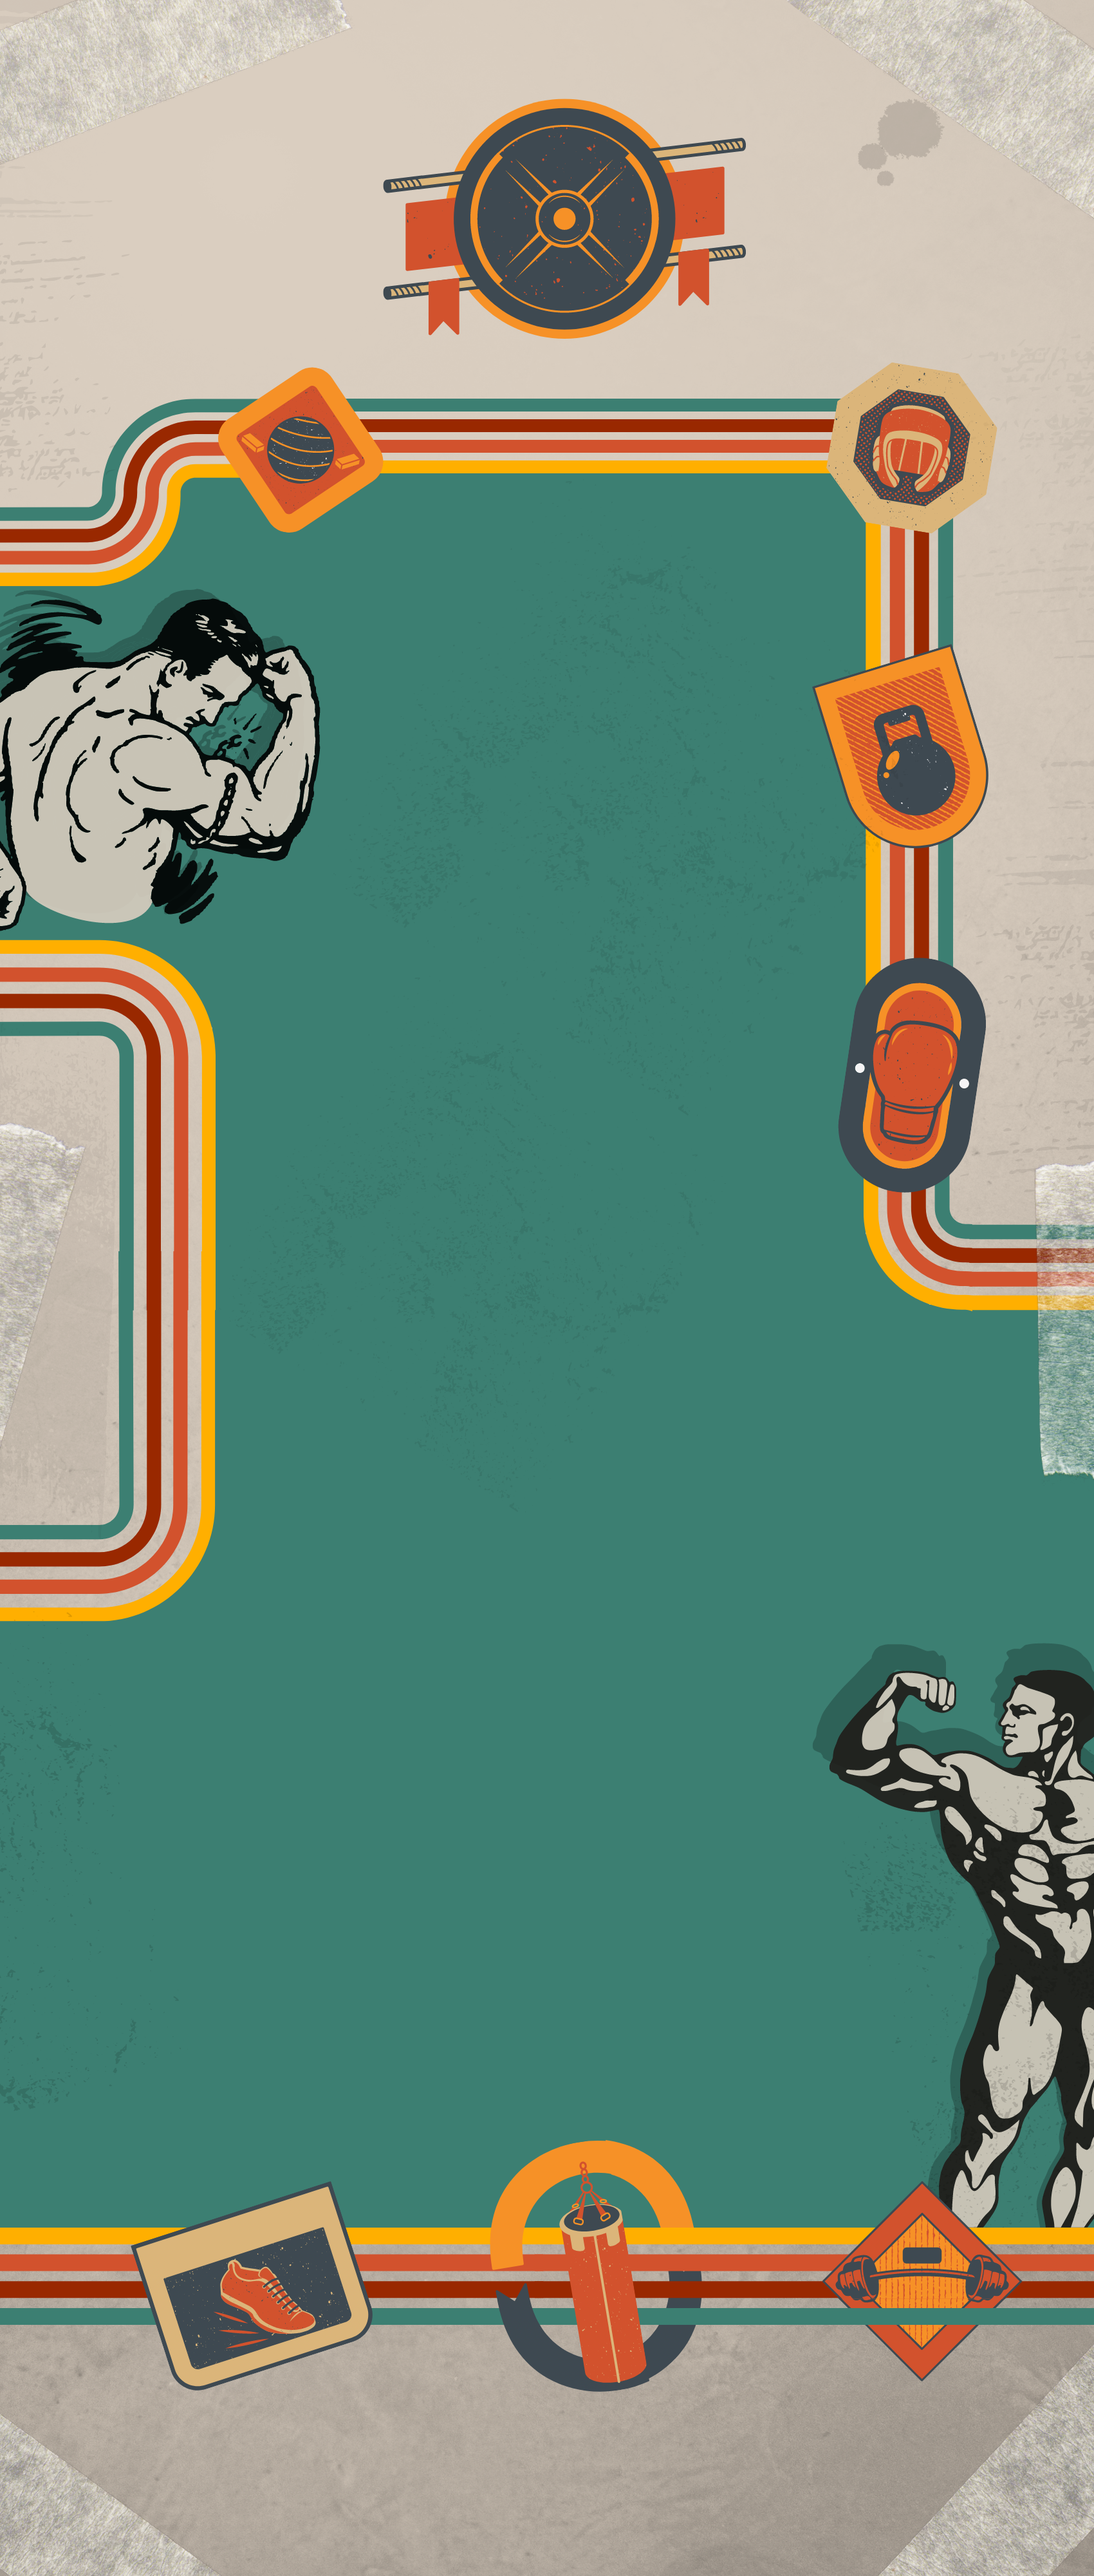
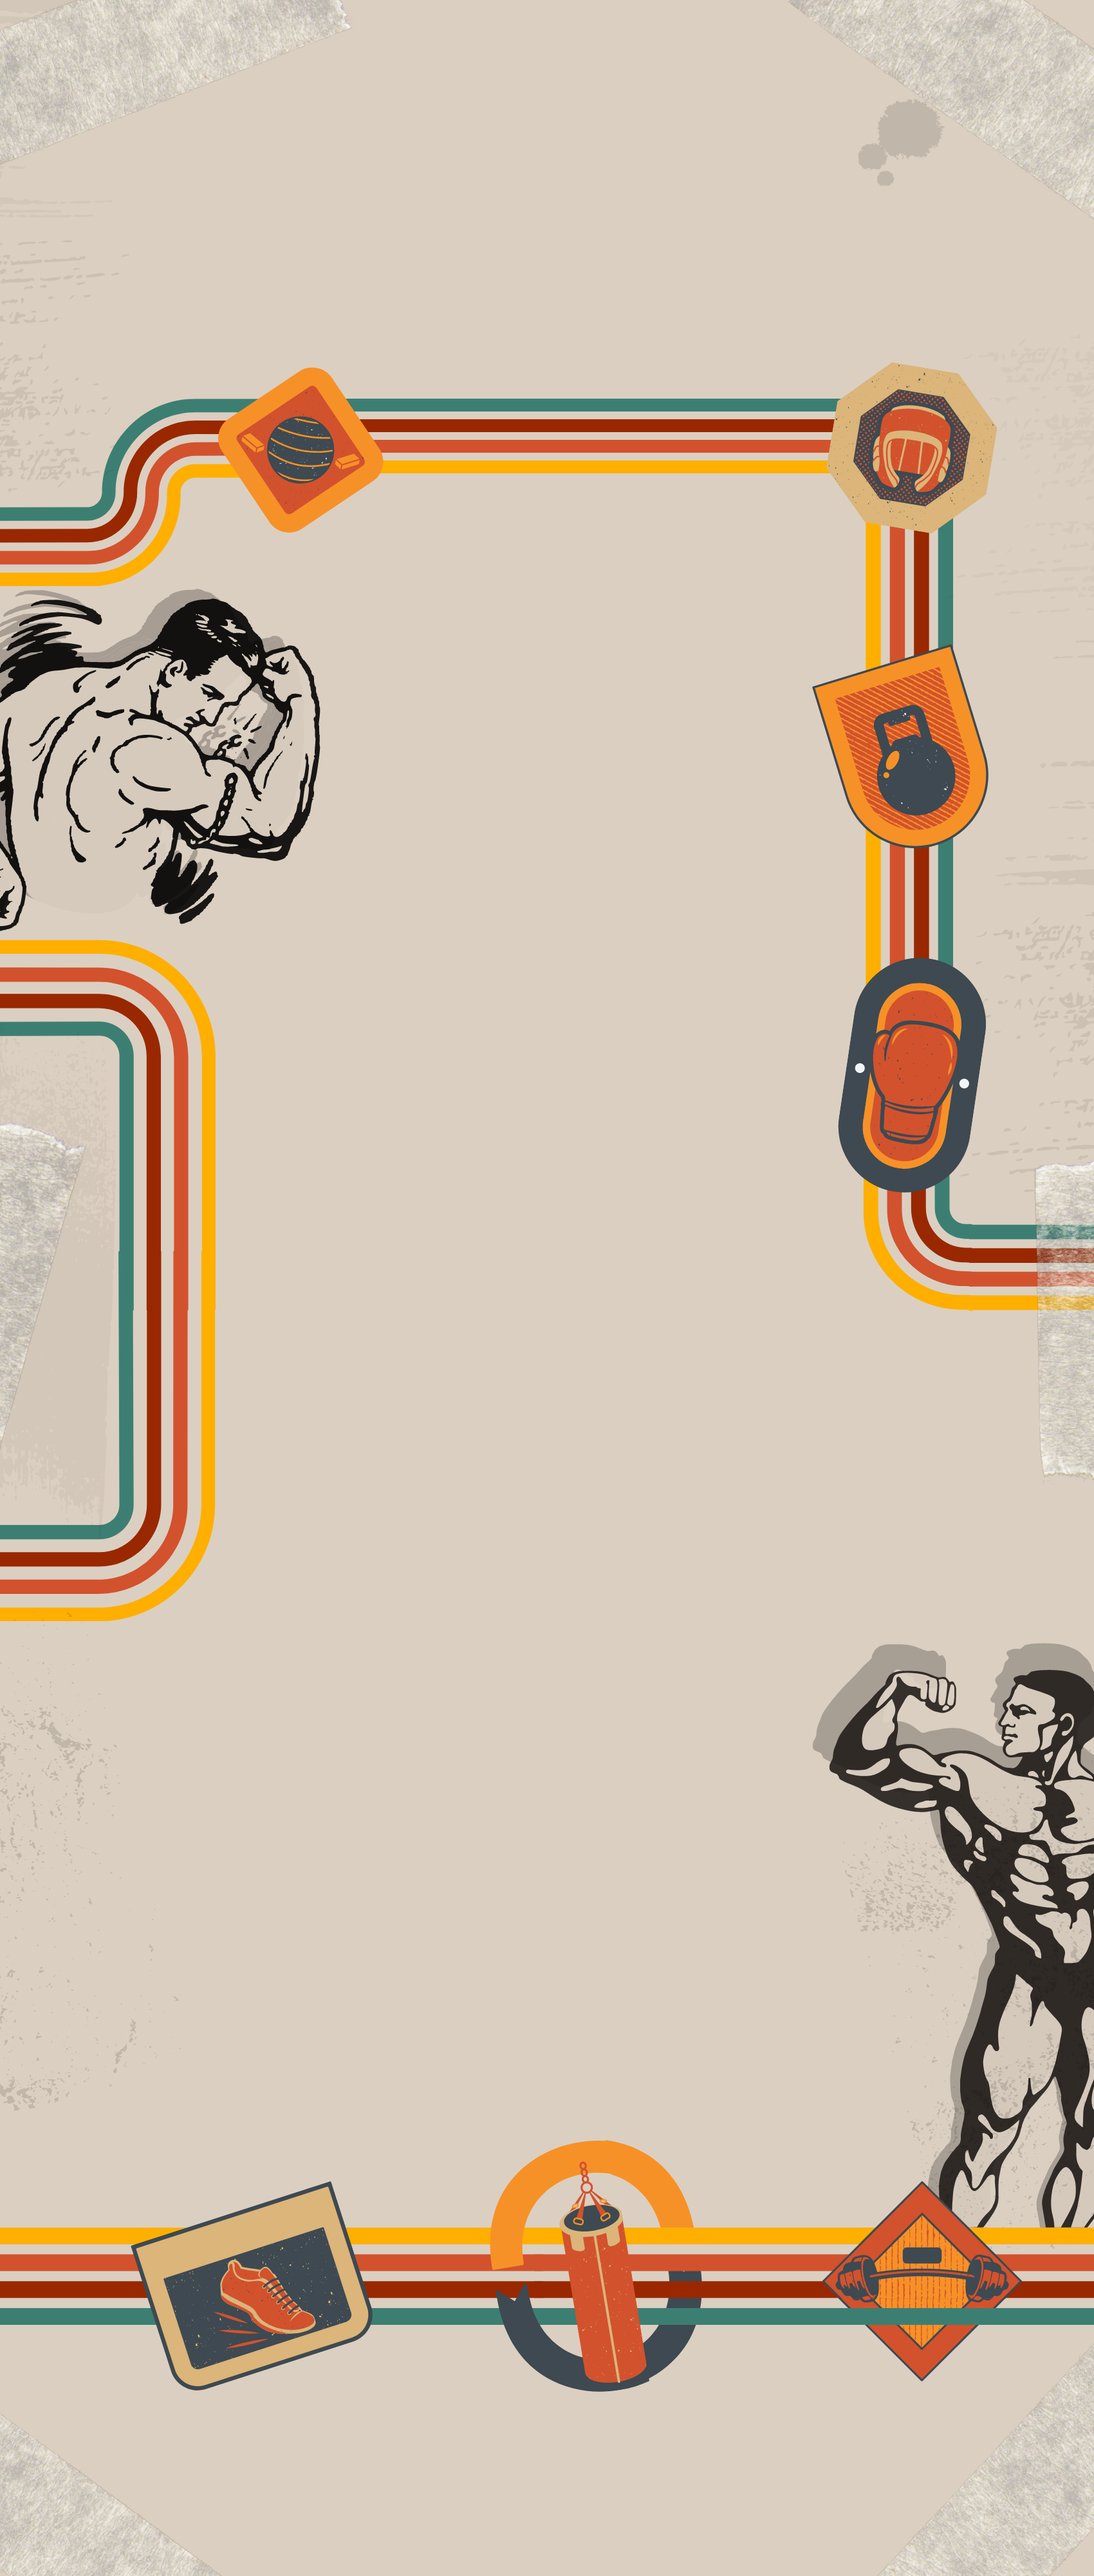
Version con box shadows de fieldset

diff --git a/css/estilos-retro.css b/css/estilos-retro.css
@@ -1,9 +1,15 @@
 :root{
-    --colorFondo: #83b3b3;
-    --colorSecundario: #3c7f72;
-    --colorOscuro: #4c4c4e;
+    --colorFondo: #d7cbbe;
+    --colorNaranjaOscuro: #fd5f16;
+    --colorRojo:rgb(238, 77, 77);
+    --colorAmarillo:rgb(255, 196, 0);
+    --colorVerde: #3c7f72;
+    --colorOscuro: #3b3b3b;
     --colorNegro: #282129;
 }
+
+@import url('https://fonts.googleapis.com/css2?family=Berkshire+Swash&display=swap');
+/* font-family: 'Berkshire Swash', cursive; */
 
 @font-face{
     font-family: "SodaFountain-inline";
@@ -41,8 +47,11 @@ font-family: "SodaFountain-regular";
 body{
     background-color: var(--colorFondo);
     background-image: url(../img/img_fondo/fondo-retro.png);
+    background-position: center top;
     background-repeat: no-repeat;
     background-size: cover;
+    background-attachment: fixed;
+    filter: contrast(85%);
 }
 
 .container{
@@ -50,37 +59,145 @@ body{
 }
 
 header{
-    width: fit-content;
-    height: 400px;
+    height: 100px;
     display: flex;
     align-items: center;
     justify-content: center;
-/*     background-color: var(--colorSecundario);
-    box-shadow: inset var(--colorOscuro) 0px 1px 20px;
-    border-bottom: #282129 5px double; */
+    margin-top: 30px;
+/*     background-image: url(../img/logos/logo-retro-no-bg.png);
+    background-repeat: no-repeat;
+    background-position: 50% 5px;
+    background-size: contain; */
 }
 
 h1{
     font-family:"deftone-stylus";
-    font-size: 100px;
-    transform: rotateZ(-6.5deg);
+    font-size: 50px;
+/*     transform: rotateZ(-6.5deg); */
+    transform: rotateZ(-4deg);
     text-shadow:
-    -3px 0 0 var(--colorSecundario),
-    -5px 0 var(--colorNegro);
-    font-weight: 200;
-    color: #282129;
+    1px -0.5px var(--colorNegro),
+    2px -1px var(--colorNaranjaOscuro),
+    3px -1.5px var(--colorNaranjaOscuro),
+    4px -2px var(--colorNaranjaOscuro),
+    5px -2.5px var(--colorNaranjaOscuro),
+    6px -3px var(--colorNaranjaOscuro),
+    7px -3.5px var(--colorRojo),
+    8px -4px var(--colorRojo),
+    9px -4.5px var(--colorNegro),
+    -1px 1px var(--colorNaranjaOscuro);
+    color: #ffe985;
     padding: 15px;
     font-style: normal;
-/*     box-shadow:
-    -4px 3px 1px black,
-    -5px 4px 1px white,
-    -10px 8px 1px #282129; */
+    filter: blur(0.2px);
 }
 
-.fondo{
-    background-color: #2821291a;
-    width: 100%;
-    height: 25px;
-    position: absolute;
-    top: 90px;
+form{
+    margin-left:21%;
+    margin-right:22%;
+    display: flex;
+    flex-direction: column;
+    justify-content: center;
+    align-items: center;
+}
+
+fieldset{
+    border: none;
+    display: flex;
+    flex-direction: column;
+    align-items: center;
+    justify-content: center;
+    box-shadow: 1px -0.5px var(--colorNegro);
+    padding: 15px 5px;
+    border-radius: 5px;
+    border: #111111fd 2px solid;
+}
+
+.division{
+    height: 5px;
+}
+
+.datosPersonales{
+    background-color: #60a396;
+    box-shadow:
+    2px -1px var(--colorVerde),
+    3px -1.5px var(--colorVerde),
+    4px -2px var(--colorVerde),
+    5px -2.5px var(--colorVerde),
+    6px -3px var(--colorVerde),
+    7px -3.5px var(--colorVerde),
+    8px -4px var(--colorVerde),
+    9px -4.5px var(--colorVerde),
+    10px -5px var(--colorVerde),
+    11px -5.5px var(--colorVerde),
+    12px -6px var(--colorVerde),
+    13px -6.5px black,
+    14px -7px black;
+}
+
+.datosContacto{
+    background-color: rgb(211, 70, 77);
+    box-shadow:
+    2px -1px var(--colorRojo),
+    3px -1.5px var(--colorRojo),
+    4px -2px var(--colorRojo),
+    5px -2.5px var(--colorRojo),
+    6px -3px var(--colorRojo),
+    7px -3.5px var(--colorRojo),
+    8px -4px var(--colorRojo),
+    9px -4.5px var(--colorRojo),
+    10px -5px var(--colorRojo),
+    11px -5.5px var(--colorRojo),
+    12px -6px var(--colorRojo),
+    13px -6.5px black,
+    14px -7px black;
+}
+
+.actividades{
+    background-color: #ffe055;
+    box-shadow:
+    2px -1px var(--colorAmarillo),
+    3px -1.5px var(--colorAmarillo),
+    4px -2px var(--colorAmarillo),
+    5px -2.5px var(--colorAmarillo),
+    6px -3px var(--colorAmarillo),
+    7px -3.5px var(--colorAmarillo),
+    8px -4px var(--colorAmarillo),
+    9px -4.5px var(--colorAmarillo),
+    10px -5px var(--colorAmarillo),
+    11px -5.5px var(--colorAmarillo),
+    12px -6px var(--colorAmarillo),
+    13px -6.5px black,
+    14px -7px black;
+}
+
+legend{
+    width: fit-content;
+    margin-left: 0;
+    text-align: center;
+    padding: 5px 10px;
+    border: 2px inset rgb(0, 0, 0);
+    border-radius: 10px;
+    font-size: 20px;
+}
+
+    legend span{
+        font-size: 20px;
+    }
+
+    .datosPersonales legend{
+        background-color: #72c4b3;
+    }
+    .datosContacto legend{
+        background-color: rgb(240, 105, 105);
+    }
+    .actividades legend{
+        background-color: #f4f772;
+    }
+
+label{
+    color: black;
+    text-shadow: 0 0 50px white;
+    font-size: 16px;
+    font-family: 'Berkshire Swash', cursive;
 }
